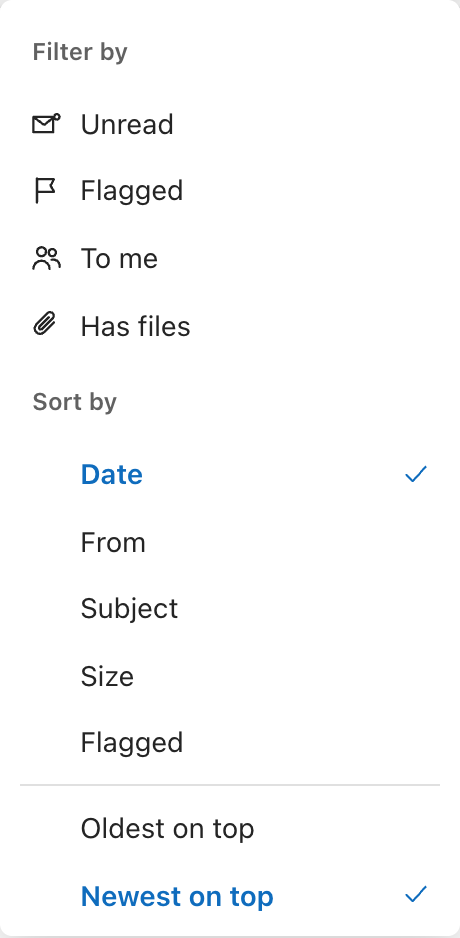
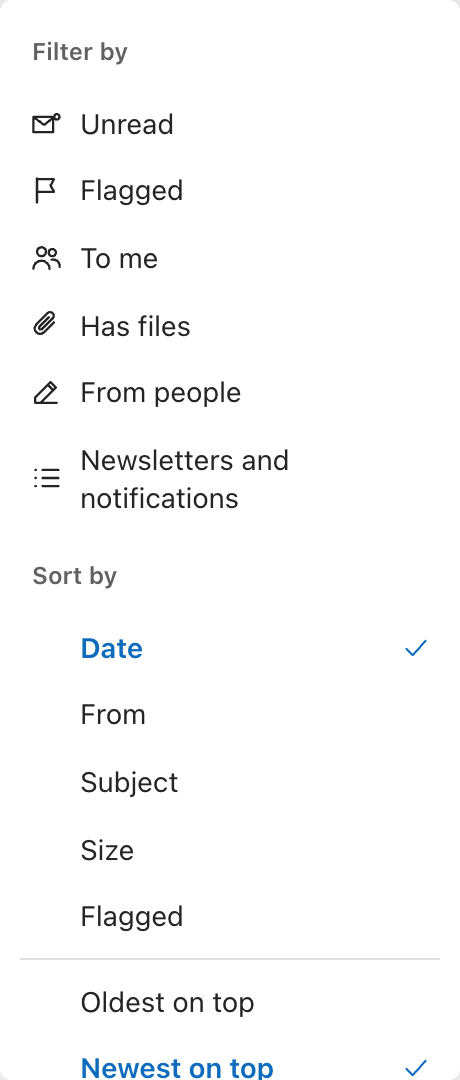
Filters: From people and Newsletters and notifications; README screenshots refreshed
Server-side IMAP search on List-Unsubscribe / List-Id / Precedence / Auto-Submitted headers and no-reply style senders.
Capture script follows the new message toolbar; demo newsletters carry List-Unsubscribe.

diff --git a/web/src/locales/fr.ts b/web/src/locales/fr.ts
@@ -473,7 +473,7 @@ export const fr: Dict = {
   Attachments: 'Pièces jointes',
   'Sort order': 'Tri', 'Newest first': 'Plus récents en premier', 'Oldest first': 'Plus anciens en premier',
   'Forward mail to': 'Transférer le courrier à', 'one address per line, empty = no forwarding': 'une adresse par ligne, vide = pas de transfert', 'Also keep a copy in this mailbox': 'Garder aussi une copie dans cette boîte', 'Forwards only to': 'Transfère uniquement à',
-  'Filter and sort': 'Filtrer et trier', 'Filter by': 'Filtrer par', 'Sort by': 'Trier par', 'To me': 'À moi', 'Has files': 'Avec fichiers', 'Date': 'Date', 'Size': 'Taille', 'Oldest on top': 'Plus anciens en haut', 'Newest on top': 'Plus récents en haut', 'A to Z': 'A à Z', 'Z to A': 'Z à A', 'Smallest on top': 'Plus petits en haut', 'Largest on top': 'Plus gros en haut', 'Flagged last': 'Marqués en dernier', 'Flagged on top': 'Marqués en haut',
+  'Filter and sort': 'Filtrer et trier', 'Filter by': 'Filtrer par', 'Sort by': 'Trier par', 'To me': 'À moi', 'Has files': 'Avec fichiers', 'From people': 'De personnes', 'Newsletters and notifications': 'Newsletters et notifications', 'Date': 'Date', 'Size': 'Taille', 'Oldest on top': 'Plus anciens en haut', 'Newest on top': 'Plus récents en haut', 'A to Z': 'A à Z', 'Z to A': 'Z à A', 'Smallest on top': 'Plus petits en haut', 'Largest on top': 'Plus gros en haut', 'Flagged last': 'Marqués en dernier', 'Flagged on top': 'Marqués en haut',
   'Calendar panel': 'Panneau du calendrier', 'Open calendar': 'Ouvrir le calendrier', 'No upcoming events': 'Aucun événement à venir',
   'Pick any color': 'Choisir n’importe quelle couleur',
   'Copied {n} to {folder}': '{n} copié(s) vers {folder}', 'Move or copy': 'Déplacer ou copier',

diff --git a/web/src/locales/es.ts b/web/src/locales/es.ts
@@ -473,7 +473,7 @@ export const es: Dict = {
   Attachments: 'Adjuntos',
   'Sort order': 'Orden', 'Newest first': 'Más recientes primero', 'Oldest first': 'Más antiguos primero',
   'Forward mail to': 'Reenviar el correo a', 'one address per line, empty = no forwarding': 'una dirección por línea, vacío = sin reenvío', 'Also keep a copy in this mailbox': 'Conservar también una copia en este buzón', 'Forwards only to': 'Reenvía solo a',
-  'Filter and sort': 'Filtrar y ordenar', 'Filter by': 'Filtrar por', 'Sort by': 'Ordenar por', 'To me': 'Para mí', 'Has files': 'Con archivos', 'Date': 'Fecha', 'Size': 'Tamaño', 'Oldest on top': 'Más antiguos arriba', 'Newest on top': 'Más recientes arriba', 'A to Z': 'A a Z', 'Z to A': 'Z a A', 'Smallest on top': 'Más pequeños arriba', 'Largest on top': 'Más grandes arriba', 'Flagged last': 'Marcados al final', 'Flagged on top': 'Marcados arriba',
+  'Filter and sort': 'Filtrar y ordenar', 'Filter by': 'Filtrar por', 'Sort by': 'Ordenar por', 'To me': 'Para mí', 'Has files': 'Con archivos', 'From people': 'De personas', 'Newsletters and notifications': 'Boletines y notificaciones', 'Date': 'Fecha', 'Size': 'Tamaño', 'Oldest on top': 'Más antiguos arriba', 'Newest on top': 'Más recientes arriba', 'A to Z': 'A a Z', 'Z to A': 'Z a A', 'Smallest on top': 'Más pequeños arriba', 'Largest on top': 'Más grandes arriba', 'Flagged last': 'Marcados al final', 'Flagged on top': 'Marcados arriba',
   'Calendar panel': 'Panel del calendario', 'Open calendar': 'Abrir calendario', 'No upcoming events': 'No hay eventos próximos',
   'Pick any color': 'Elegir cualquier color',
   'Copied {n} to {folder}': '{n} copiado(s) a {folder}', 'Move or copy': 'Mover o copiar',

diff --git a/web/src/locales/de.ts b/web/src/locales/de.ts
@@ -473,7 +473,7 @@ export const de: Dict = {
   Attachments: 'Anhänge',
   'Sort order': 'Sortierung', 'Newest first': 'Neueste zuerst', 'Oldest first': 'Älteste zuerst',
   'Forward mail to': 'E-Mails weiterleiten an', 'one address per line, empty = no forwarding': 'eine Adresse pro Zeile, leer = keine Weiterleitung', 'Also keep a copy in this mailbox': 'Auch eine Kopie in diesem Postfach behalten', 'Forwards only to': 'Leitet nur weiter an',
-  'Filter and sort': 'Filtern und sortieren', 'Filter by': 'Filtern nach', 'Sort by': 'Sortieren nach', 'To me': 'An mich', 'Has files': 'Mit Dateien', 'Date': 'Datum', 'Size': 'Größe', 'Oldest on top': 'Älteste oben', 'Newest on top': 'Neueste oben', 'A to Z': 'A bis Z', 'Z to A': 'Z bis A', 'Smallest on top': 'Kleinste oben', 'Largest on top': 'Größte oben', 'Flagged last': 'Markierte zuletzt', 'Flagged on top': 'Markierte oben',
+  'Filter and sort': 'Filtern und sortieren', 'Filter by': 'Filtern nach', 'Sort by': 'Sortieren nach', 'To me': 'An mich', 'Has files': 'Mit Dateien', 'From people': 'Von Personen', 'Newsletters and notifications': 'Newsletter und Benachrichtigungen', 'Date': 'Datum', 'Size': 'Größe', 'Oldest on top': 'Älteste oben', 'Newest on top': 'Neueste oben', 'A to Z': 'A bis Z', 'Z to A': 'Z bis A', 'Smallest on top': 'Kleinste oben', 'Largest on top': 'Größte oben', 'Flagged last': 'Markierte zuletzt', 'Flagged on top': 'Markierte oben',
   'Calendar panel': 'Kalenderleiste', 'Open calendar': 'Kalender öffnen', 'No upcoming events': 'Keine anstehenden Termine',
   'Pick any color': 'Beliebige Farbe wählen',
   'Copied {n} to {folder}': '{n} nach {folder} kopiert', 'Move or copy': 'Verschieben oder kopieren',

diff --git a/web/src/locales/sv.ts b/web/src/locales/sv.ts
@@ -473,7 +473,7 @@ export const sv: Dict = {
   Attachments: 'Bilagor',
   'Sort order': 'Sortering', 'Newest first': 'Nyast först', 'Oldest first': 'Äldst först',
   'Forward mail to': 'Vidarebefordra e-post till', 'one address per line, empty = no forwarding': 'en adress per rad, tom = ingen vidarebefordran', 'Also keep a copy in this mailbox': 'Behåll även en kopia i den här brevlådan', 'Forwards only to': 'Vidarebefordrar bara till',
-  'Filter and sort': 'Filtrera och sortera', 'Filter by': 'Filtrera efter', 'Sort by': 'Sortera efter', 'To me': 'Till mig', 'Has files': 'Har filer', 'Date': 'Datum', 'Size': 'Storlek', 'Oldest on top': 'Äldst överst', 'Newest on top': 'Nyast överst', 'A to Z': 'A till Ö', 'Z to A': 'Ö till A', 'Smallest on top': 'Minst överst', 'Largest on top': 'Störst överst', 'Flagged last': 'Flaggade sist', 'Flagged on top': 'Flaggade överst',
+  'Filter and sort': 'Filtrera och sortera', 'Filter by': 'Filtrera efter', 'Sort by': 'Sortera efter', 'To me': 'Till mig', 'Has files': 'Har filer', 'From people': 'Från personer', 'Newsletters and notifications': 'Nyhetsbrev och aviseringar', 'Date': 'Datum', 'Size': 'Storlek', 'Oldest on top': 'Äldst överst', 'Newest on top': 'Nyast överst', 'A to Z': 'A till Ö', 'Z to A': 'Ö till A', 'Smallest on top': 'Minst överst', 'Largest on top': 'Störst överst', 'Flagged last': 'Flaggade sist', 'Flagged on top': 'Flaggade överst',
   'Calendar panel': 'Kalenderpanel', 'Open calendar': 'Öppna kalendern', 'No upcoming events': 'Inga kommande händelser',
   'Pick any color': 'Välj valfri färg',
   'Copied {n} to {folder}': '{n} kopierade till {folder}', 'Move or copy': 'Flytta eller kopiera',

diff --git a/web/src/locales/da.ts b/web/src/locales/da.ts
@@ -485,7 +485,7 @@ export const da: Dict = {
   Attachments: 'Vedhæftninger',
   'Sort order': 'Sortering', 'Newest first': 'Nyeste først', 'Oldest first': 'Ældste først',
   'Forward mail to': 'Videresend mail til', 'one address per line, empty = no forwarding': 'én adresse pr. linje, tom = ingen videresendelse', 'Also keep a copy in this mailbox': 'Gem også en kopi i denne postkasse', 'Forwards only to': 'Videresender kun til',
-  'Filter and sort': 'Filtrer og sortér', 'Filter by': 'Filtrer efter', 'Sort by': 'Sortér efter', 'To me': 'Til mig', 'Has files': 'Har filer', 'Date': 'Dato', 'Size': 'Størrelse', 'Oldest on top': 'Ældste øverst', 'Newest on top': 'Nyeste øverst', 'A to Z': 'A til Å', 'Z to A': 'Å til A', 'Smallest on top': 'Mindste øverst', 'Largest on top': 'Største øverst', 'Flagged last': 'Markerede sidst', 'Flagged on top': 'Markerede øverst',
+  'Filter and sort': 'Filtrer og sortér', 'Filter by': 'Filtrer efter', 'Sort by': 'Sortér efter', 'To me': 'Til mig', 'Has files': 'Har filer', 'From people': 'Fra personer', 'Newsletters and notifications': 'Nyhedsbreve og notifikationer', 'Date': 'Dato', 'Size': 'Størrelse', 'Oldest on top': 'Ældste øverst', 'Newest on top': 'Nyeste øverst', 'A to Z': 'A til Å', 'Z to A': 'Å til A', 'Smallest on top': 'Mindste øverst', 'Largest on top': 'Største øverst', 'Flagged last': 'Markerede sidst', 'Flagged on top': 'Markerede øverst',
   'Calendar panel': 'Kalenderpanel', 'Open calendar': 'Åbn kalender', 'No upcoming events': 'Ingen kommende aftaler',
   'Pick any color': 'Vælg en vilkårlig farve',
   'Copied {n} to {folder}': '{n} kopieret til {folder}', 'Move or copy': 'Flyt eller kopiér',

diff --git a/web/src/locales/nb.ts b/web/src/locales/nb.ts
@@ -473,7 +473,7 @@ export const nb: Dict = {
   Attachments: 'Vedlegg',
   'Sort order': 'Sortering', 'Newest first': 'Nyeste først', 'Oldest first': 'Eldste først',
   'Forward mail to': 'Videresend e-post til', 'one address per line, empty = no forwarding': 'én adresse per linje, tom = ingen videresending', 'Also keep a copy in this mailbox': 'Behold også en kopi i denne postboksen', 'Forwards only to': 'Videresender bare til',
-  'Filter and sort': 'Filtrer og sorter', 'Filter by': 'Filtrer etter', 'Sort by': 'Sorter etter', 'To me': 'Til meg', 'Has files': 'Har filer', 'Date': 'Dato', 'Size': 'Størrelse', 'Oldest on top': 'Eldste øverst', 'Newest on top': 'Nyeste øverst', 'A to Z': 'A til Å', 'Z to A': 'Å til A', 'Smallest on top': 'Minste øverst', 'Largest on top': 'Største øverst', 'Flagged last': 'Flaggede sist', 'Flagged on top': 'Flaggede øverst',
+  'Filter and sort': 'Filtrer og sorter', 'Filter by': 'Filtrer etter', 'Sort by': 'Sorter etter', 'To me': 'Til meg', 'Has files': 'Har filer', 'From people': 'Fra personer', 'Newsletters and notifications': 'Nyhetsbrev og varsler', 'Date': 'Dato', 'Size': 'Størrelse', 'Oldest on top': 'Eldste øverst', 'Newest on top': 'Nyeste øverst', 'A to Z': 'A til Å', 'Z to A': 'Å til A', 'Smallest on top': 'Minste øverst', 'Largest on top': 'Største øverst', 'Flagged last': 'Flaggede sist', 'Flagged on top': 'Flaggede øverst',
   'Calendar panel': 'Kalenderpanel', 'Open calendar': 'Åpne kalender', 'No upcoming events': 'Ingen kommende avtaler',
   'Pick any color': 'Velg hvilken som helst farge',
   'Copied {n} to {folder}': '{n} kopiert til {folder}', 'Move or copy': 'Flytt eller kopier',

diff --git a/server/routes/mail.ts b/server/routes/mail.ts
@@ -6,6 +6,7 @@ import * as sm from '../smime.ts';
 import { nameFor } from '../prefs.ts';
 const smimeOn = sm.smimeOn;
 import { attachments } from '../mime.ts';
+import { bulkCriteria, peopleCriteria } from '../bulk.ts';
 import { spamInfo } from '../spam.ts';
 import { messageCache, msgKey, dropMessages, patchFlag } from '../cache.ts';
 import { Router } from 'express';
@@ -64,9 +65,9 @@ async function listPage(cn: Conn, folder: string, page: number, filter: string, 
         const messages = top.length ? dir(await listMessages(cn, c, folder, top, true, lazy)) : [];
         return { total: uids.length, messages, hasMore: false };
       }
-      if (filter === 'unread' || filter === 'flagged' || filter === 'tome') {
+      if (filter === 'unread' || filter === 'flagged' || filter === 'tome' || filter === 'bulk' || filter === 'people') {
         // Ask the server for every match in the folder, not just the loaded page (big folders like Gmail's All Mail).
-        const uids = await byDate(c, (await c.search(filter === 'unread' ? { seen: false } : filter === 'tome' ? { to: cn.account.email } : { flagged: true }, { uid: true })) || [], asc);
+        const uids = await byDate(c, (await c.search(filter === 'unread' ? { seen: false } : filter === 'tome' ? { to: cn.account.email } : filter === 'bulk' ? bulkCriteria : filter === 'people' ? peopleCriteria : { flagged: true }, { uid: true })) || [], asc);
         if (filter === 'unread') noteUnseen(cn, folder, uids.length);
         const slice = uids.slice(page * PAGE, (page + 1) * PAGE);
         const messages = slice.length ? dir(await listMessages(cn, c, folder, slice, true, lazy)) : [];

diff --git a/web/src/ViewMenu.tsx b/web/src/ViewMenu.tsx
@@ -33,7 +33,7 @@ export function PaneMenu({ pane, onPane }: { pane: PaneMode; onPane: (p: PaneMod
   );
 }
 
-type MsgFilter = 'all' | 'unread' | 'flagged' | 'attachments' | 'tome';
+type MsgFilter = 'all' | 'unread' | 'flagged' | 'attachments' | 'tome' | 'bulk' | 'people';
 const SORT_KEYS: [SortKey, () => string][] = [['date', () => t('Date')], ['from', () => t('From')], ['subject', () => t('Subject')], ['size', () => t('Size')], ['flagged', () => t('Flagged')]];
 /** Names of the two directions for each sort key: [ascending, descending]. */
 const DIRECTIONS: Record<SortKey, [() => string, () => string]> = {
@@ -54,7 +54,7 @@ export function FilterMenu({ filter, onFilter, sortKey, onSortKey, oldestFirst, 
     document.addEventListener('mousedown', close);
     return () => document.removeEventListener('mousedown', close);
   }, [open]);
-  const FILTERS: [MsgFilter, string, string][] = [['unread', 'unread', t('Unread')], ['flagged', 'flag', t('Flagged')], ['tome', 'people', t('To me')], ['attachments', 'clip', t('Has files')]];
+  const FILTERS: [MsgFilter, string, string][] = [['unread', 'unread', t('Unread')], ['flagged', 'flag', t('Flagged')], ['tome', 'people', t('To me')], ['attachments', 'clip', t('Has files')], ['people', 'compose', t('From people')], ['bulk', 'list', t('Newsletters and notifications')]];
   const item = (on: boolean, icon: string | null, label: string, onClick: () => void) => (
     <button role="menuitemradio" aria-checked={on} className={on ? 'menu-on' : ''} onClick={onClick}>
       {icon ? <Icon name={icon} size={18} /> : <span className="menu-gap" />} <span className="grow">{label}</span>

diff --git a/server/bulk.ts b/server/bulk.ts
@@ -1,0 +1,23 @@
+// "Newsletters and notifications" vs "From people": a folder search that needs no classifier.
+// Mass mail carries List-Unsubscribe / List-Id / Precedence: bulk (RFC 2369, RFC 3834); the rest of the automated mail
+// (receipts, build and store notices) comes from addresses like no-reply@ or notifications@.
+import type { SearchObject } from 'imapflow';
+
+const exists = (name: string): SearchObject => ({ header: { [name]: true } });
+export const bulkCriteria: SearchObject = {
+  or: [
+    exists('List-Unsubscribe'),
+    exists('List-Id'),
+    { header: { Precedence: 'bulk' } },
+    { header: { Precedence: 'list' } },
+    { header: { 'Auto-Submitted': 'auto-' } },
+    { from: 'noreply' },
+    { from: 'no-reply' },
+    { from: 'donotreply' },
+    { from: 'do-not-reply' },
+    { from: 'notification' },
+    { from: 'mailer-daemon' },
+  ],
+};
+/** Everything that is not bulk: mail written by a person. */
+export const peopleCriteria: SearchObject = { not: bulkCriteria };

diff --git a/test/bulk.test.ts b/test/bulk.test.ts
@@ -1,0 +1,13 @@
+import { test } from 'node:test';
+import assert from 'node:assert/strict';
+import { bulkCriteria, peopleCriteria } from '../server/bulk.ts';
+
+test('bulk mail is recognised by list headers and automated sender names', () => {
+  const j = JSON.stringify(bulkCriteria);
+  for (const h of ['List-Unsubscribe', 'List-Id', 'Precedence', 'Auto-Submitted']) assert.match(j, new RegExp(h));
+  for (const f of ['noreply', 'no-reply', 'notification']) assert.match(j, new RegExp(`"from":"${f}"`));
+});
+
+test('"from people" is exactly the opposite search', () => {
+  assert.deepEqual(peopleCriteria, { not: bulkCriteria });
+});

diff --git a/web/src/App.tsx b/web/src/App.tsx
@@ -120,7 +120,7 @@ function Mail({ me, onName, appName, source, onLogout }: { me: Me; onName: (name
   const [compose, setCompose] = useState<ComposeInit | null>(null);
   const [query, setQuery] = useState('');
   const [searching, setSearching] = useState('');
-  const [filter, setFilter] = useState<'all' | 'unread' | 'flagged' | 'attachments' | 'tome'>('all');
+  const [filter, setFilter] = useState<'all' | 'unread' | 'flagged' | 'attachments' | 'tome' | 'bulk' | 'people'>('all');
   const oldestRef = useRef(false);
   const filterRef = useRef(filter);
   filterRef.current = filter;

diff --git a/README.md b/README.md
@@ -3,31 +3,31 @@
 A webmail client that talks plain IMAP + SMTP to **any** mail server, with an Outlook-style
 three-pane UI: folder tree, date-grouped message list with previews, reading pane, inline composer.
 
-![goodmail inbox with reading pane](docs/screenshots/mail-light.png?v=20261112)
+![goodmail inbox with reading pane](docs/screenshots/mail-light.png?v=20261113)
 
 | Dark mode, remote images blocked | Calendar — week view |
 |---|---|
-| ![Dark mode with a newsletter; tracking image blocked](docs/screenshots/mail-dark.png?v=20261112) | ![Calendar week view](docs/screenshots/calendar.png?v=20261112) |
+| ![Dark mode with a newsletter; tracking image blocked](docs/screenshots/mail-dark.png?v=20261113) | ![Calendar week view](docs/screenshots/calendar.png?v=20261113) |
 | **To-Do** — My Day, Important, Planned, your own lists | **Calendar side panel** — month and upcoming events |
-| ![To-Do with a task open](docs/screenshots/tasks.png?v=20261112) | ![Mail with the calendar side panel](docs/screenshots/side-panel.png?v=20261112) |
+| ![To-Do with a task open](docs/screenshots/tasks.png?v=20261113) | ![Mail with the calendar side panel](docs/screenshots/side-panel.png?v=20261113) |
 | **Folders** — ⋯ menu, subfolders, drag and drop | **Mail rules** — run on the server |
-| ![Folder menu with new subfolder, rename and delete](docs/screenshots/folders.png?v=20261112) | ![Mail rules list](docs/screenshots/rules.png?v=20261112) |
+| ![Folder menu with new subfolder, rename and delete](docs/screenshots/folders.png?v=20261113) | ![Mail rules list](docs/screenshots/rules.png?v=20261113) |
 | **Create a rule from any message** | **Composer** — signature and templates |
-| ![Rule editor pre-filled from a message](docs/screenshots/rule-editor.png?v=20261112) | ![Composer with signature and the templates menu](docs/screenshots/compose.png?v=20261112) |
+| ![Rule editor pre-filled from a message](docs/screenshots/rule-editor.png?v=20261113) | ![Composer with signature and the templates menu](docs/screenshots/compose.png?v=20261113) |
 | **S/MIME** — signed and encrypted message | **S/MIME settings** — certificate, CA, correspondents |
-| ![An encrypted, signed and verified message](docs/screenshots/smime.png?v=20261112) | ![Secure mail settings](docs/screenshots/smime-settings.png?v=20261112) |
+| ![An encrypted, signed and verified message](docs/screenshots/smime.png?v=20261113) | ![Secure mail settings](docs/screenshots/smime-settings.png?v=20261113) |
 | **Sign-in security** — password, 2-step, passkeys, reset address | **Address book** |
-| ![Sign-in security dialog](docs/screenshots/security.png?v=20261112) | ![Address book](docs/screenshots/contacts.png?v=20261112) |
+| ![Sign-in security dialog](docs/screenshots/security.png?v=20261113) | ![Address book](docs/screenshots/contacts.png?v=20261113) |
 | **Administration** — mailboxes and aliases of a domain | **Domains** — for the main administrator |
-| ![Administration: a domain's mailboxes](docs/screenshots/admin.png?v=20261112) | ![Administration: domains and their administrators (main administrator)](docs/screenshots/admin-domains.png?v=20261112) |
+| ![Administration: a domain's mailboxes](docs/screenshots/admin.png?v=20261113) | ![Administration: domains and their administrators (main administrator)](docs/screenshots/admin-domains.png?v=20261113) |
 | **View headers** — the raw header block | **Settings** — colour, date, time and language |
-| ![Raw message headers](docs/screenshots/headers.png?v=20261112) | ![Settings menu with the accent colours and dropdowns for date format, time format and language](docs/screenshots/settings-menu.png?v=20261112) |
-| **Filter and sort** — unread, flagged, to me, has files; sort by date, from, subject, size or flag | |
-| <img src="docs/screenshots/filter-menu.png?v=20261112" alt="Filter and sort menu" width="45%"> | |
+| ![Raw message headers](docs/screenshots/headers.png?v=20261113) | ![Settings menu with the accent colours and dropdowns for date format, time format and language](docs/screenshots/settings-menu.png?v=20261113) |
+| **Filter and sort** — unread, flagged, to me, has files, from people, newsletters and notifications; sort by date, from, subject, size or flag | |
+| <img src="docs/screenshots/filter-menu.png?v=20261113" alt="Filter and sort menu" width="45%"> | |
 | **Select all** — toolbar tickbox, day-header tickboxes | **Debug window** — admin-only, what goodmail does in the background |
-| ![Select all: every message in the list selected, tickboxes on the toolbar and the day headers](docs/screenshots/select-all.png?v=20261112) | ![Debug window with browser calls, server calls and IMAP commands with timings](docs/screenshots/debug.png?v=20261112) |
+| ![Select all: every message in the list selected, tickboxes on the toolbar and the day headers](docs/screenshots/select-all.png?v=20261113) | ![Debug window with browser calls, server calls and IMAP commands with timings](docs/screenshots/debug.png?v=20261113) |
 | **On a phone** | **Phone — folder drawer with ⋯ buttons** |
-| <img src="docs/screenshots/phone-list.png?v=20261112" alt="Message list on a phone" width="32%"> <img src="docs/screenshots/phone-message.png?v=20261112" alt="Reading a message on a phone" width="32%"> <img src="docs/screenshots/phone-move.png?v=20261112" alt="Moving a message on a phone" width="32%"> | <img src="docs/screenshots/phone-menu.png?v=20261112" alt="Folder drawer on a phone" width="60%"> |
+| <img src="docs/screenshots/phone-list.png?v=20261113" alt="Message list on a phone" width="32%"> <img src="docs/screenshots/phone-message.png?v=20261113" alt="Reading a message on a phone" width="32%"> <img src="docs/screenshots/phone-move.png?v=20261113" alt="Moving a message on a phone" width="32%"> | <img src="docs/screenshots/phone-menu.png?v=20261113" alt="Folder drawer on a phone" width="60%"> |
 
 <sub>Screenshots use invented demo data — see [scripts/screenshots](scripts/screenshots).</sub>
 
@@ -42,7 +42,7 @@ More documentation: the [wiki](https://github.com/antongpopov/goodmail/wiki).
   so). Inbox, Sent, Drafts, Trash, Junk and Archive can't be renamed, moved or deleted
 - **Move or copy between mailboxes**: the Move menu lists the folders of all your accounts with a Move / Copy switch; the message is read from one mailbox and added to the other (flags and date kept; a moved original goes to the source Trash)
 - Message list grouped Today / Yesterday / This week…, preview lines, unread/flag/attachment markers,
-  hover actions, Ctrl/Shift multi-select and Select all (Ctrl/Cmd-A, a toolbar tickbox, a tickbox on each day header), infinite scroll, a Filter and sort menu
+  hover actions, message actions as grouped buttons in the top bar (reply · archive/delete/junk · move/flag/headers; on a phone reply, reply all, forward and a ⋯ menu), Ctrl/Shift multi-select and Select all (Ctrl/Cmd-A, a toolbar tickbox, a tickbox on each day header), infinite scroll, a Filter and sort menu
 - Server-side search (subject, from, to, body)
 - Reading pane renders HTML mail sanitized (DOMPurify) in a script-less sandboxed iframe with its own CSP;
   **remote images and trackers are blocked** until you allow them once or per sender
@@ -63,7 +63,7 @@ More documentation: the [wiki](https://github.com/antongpopov/goodmail/wiki).
   duplicate merge by email, "add sender" button, To/Cc autocomplete
 - **To-Do**: an Outlook-style task list: My Day, Important, Planned, Tasks and your own lists, steps, due dates, repeating tasks
   and notes; "Flagged email" jumps to your flagged mail. Stored per account as a small JSON file on the server, so it follows you to every device
-- **Filter and sort** menu in the message list (Unread, Flagged, To me, Has files; sort by date, from, subject, size or flag, either direction)
+- **Filter and sort** menu in the message list (Unread, Flagged, To me, Has files, From people, Newsletters and notifications; sort by date, from, subject, size or flag, either direction). *Newsletters and notifications* is every message with a `List-Unsubscribe` / `List-Id` / `Precedence: bulk` header or from a `no-reply`-style address — found by a search on the mail server, no classifier; *From people* is everything else
 - **Calendar side panel** in the mail view (toggle in the top bar): a month and your upcoming events, like Outlook
 - **Calendar**: Outlook-style day / work week / week / month views, mini month, recurring events,
   .ics import/export, and an "Add to calendar" button on invitations (Outlook/Teams time zones understood)
